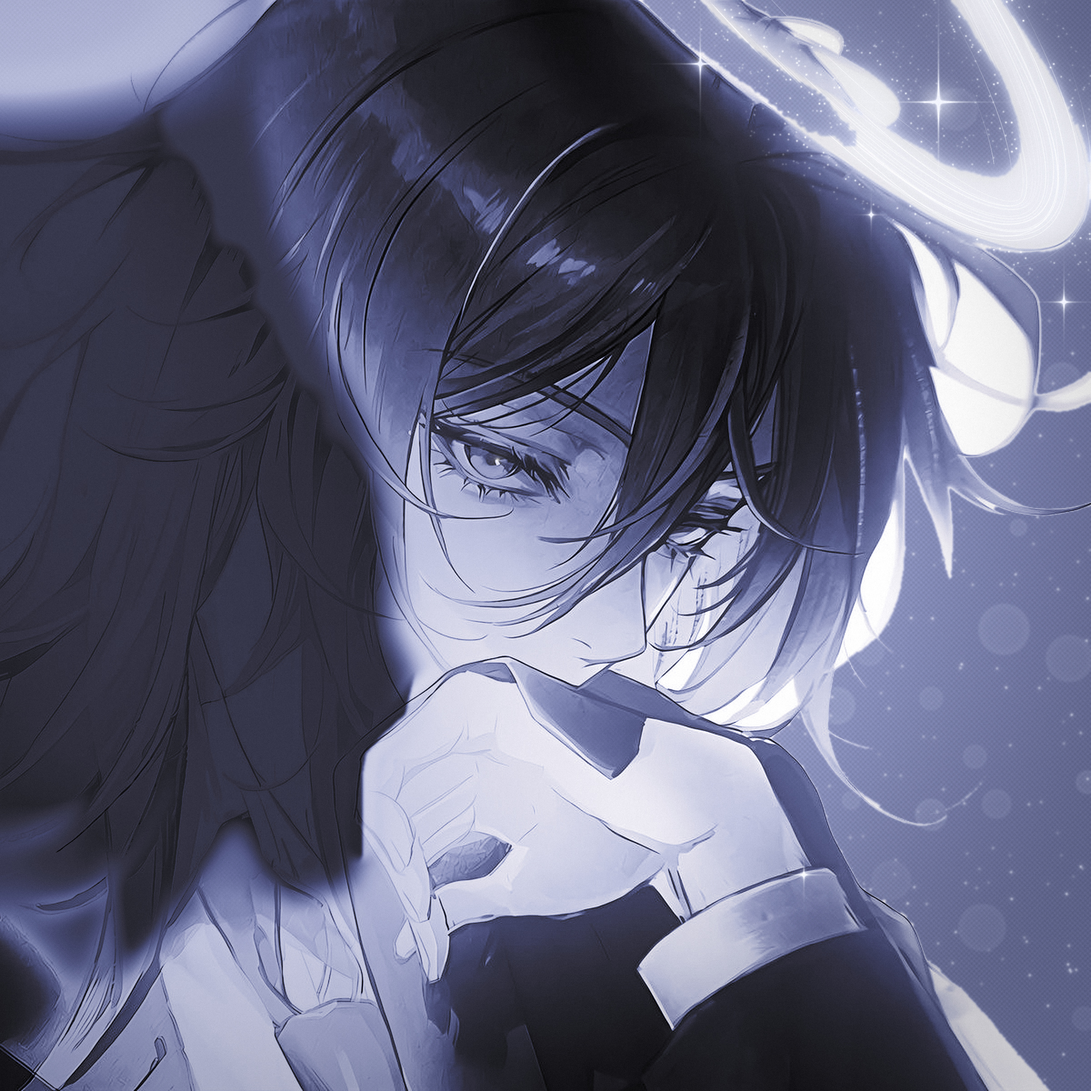
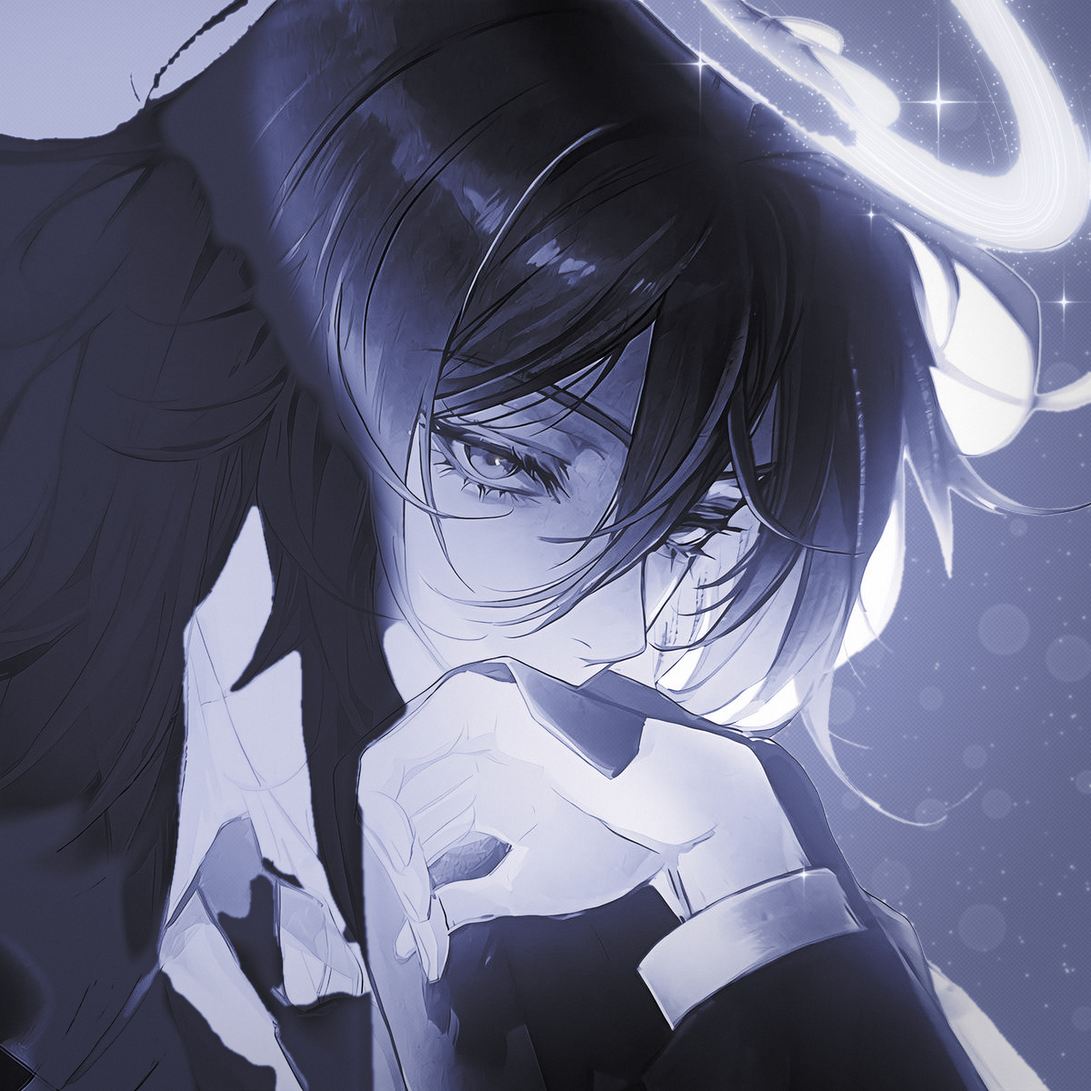
Anime art: hair edges from the drawing instead of blurred outlines
The left hair's edges were a hand-drawn outline blurred over 24 px, which
left smudges on the hand and the shirt and a fuzzy blob against the sky.
The original's light hair is warm (red above blue) while its sky, shirt
and tie are neutral, so the warmth now draws those edges: the sky in the
top-left corner (strands flying over it stay hair) and the white shirt
showing between the locks. JPEG chroma blocks are smoothed and snapped to
the drawing with a guided filter; small neutral spots inside a lock, the
hair lit to white at the left edge, and specks on the shirt are cleaned.

Claude-Session: https://claude.ai/code/session_01R1ufdM6Gy46JF29dPHPPpt

Changed region(s): [[0.0, 0.4688, 0.3438, 1.0], [0.0, 0.0, 0.25, 0.1562], [0.3438, 0.5625, 0.4062, 0.6562]]

diff --git a/halo/beautify.py b/halo/beautify.py
@@ -4,10 +4,10 @@
 1. Resolution: the picture is enlarged 2x (Lanczos, mild unsharp mask) and
    everything below is drawn natively at that size; masks are found at 1x.
 2. Hair colour and highlights on the left: the long hair there was backlit to
-   white. Inside HAIR_POLY (sharp along the hand's drawn outline, soft elsewhere,
-   fading out towards the sky in the top-left corner) it takes the dark hair's
-   tones, HAIR_K * L^HAIR_G, weighted by how light the hair is locally, so it
-   blends into the dark hair. Elsewhere the highlights there were half pure white. Its
+   white. Inside HAIR_POLY (sharp along the hand's drawn outline) it takes the
+   dark hair's tones, HAIR_K * L^HAIR_G. Its edges against the sky (top-left,
+   wisps included) and against the shirt showing between the locks come from the
+   original's warmth: its light hair is warm, its sky and shirt neutral. Elsewhere the highlights there were half pure white. Its
    strands are still in the original's top tones (and in its blue channel,
    which clips far less), so those tones are rolled off from LEFT_KNEE up to
    LEFT_TOP with a shoulder that spreads them out instead of flattening them,
@@ -61,15 +61,21 @@ STARS = [  # x, y, vertical ray, horizontal ray, gain; on dark spots so they rea
 EYE = (547.0, 506.0)
 # the light, backlit hair on the left (1x outline; the face, hand and shirt collar
 # stay outside it). Inside, the hair takes the dark hair's tones: HAIR_K * L^HAIR_G
-HAIR_POLY = [(300, 0), (0, 0), (0, 1080), (130, 1075), (240, 975), (330, 990), (385, 975),
+HAIR_POLY = [(300, 0), (0, 0), (0, 1200), (410, 1200), (408, 1100), (400, 1000),
              (398, 940), (398, 850), (402, 828), (420, 808), (445, 785), (455, 740),     # the hand's outline
              (430, 690), (432, 620), (422, 540), (405, 470),                 # the face's left side
              (360, 380), (310, 250), (282, 120)]
 # the drawn outline of the hand: the hair edge is sharp only along it
-HAND_LINE = [(560, 722), (500, 740), (470, 760), (445, 785), (420, 808), (402, 828), (398, 850), (398, 925)]
-# the top-left corner is sky with a few strands: the hair fades out towards it over
-# a wide soft gradient (ellipse radii in px), so no hard edge separates them
-CORNER = (260.0, 110.0, 0.5, 1.6)
+HAND_LINE = [(560, 722), (500, 740), (470, 760), (445, 785), (420, 808), (402, 828), (398, 850), (398, 940),
+             (400, 1000), (408, 1100), (410, 1200)]
+# the original's light hair is warm (red above blue) and its sky, collar and tie are
+# neutral: that draws the hair's own edge against the sky in the top-left corner (wisps
+# included) and over the shirt between the locks, instead of a drawn line
+SKY_WARMTH = 3.0           # (R - B) * 255 at or below this, on pure white: sky
+HAIR_WARMTH = (9.0, 15.0)  # over the shirt: shirt and tie below the first, hair above the second
+SHIRT_Y = (500.0, 540.0)    # the shirt shows between the locks below this
+SHIRT_MIN = 3000            # px: smaller neutral spots are hair
+SPECK_MAX = 400             # px: smaller warm specks on the shirt are not
 HAIR_K, HAIR_G = 0.27, 1.8
 HAIR_FLOOR = 0.145         # the crown's dark hair tone before the S-curve
 HAIR_EDGE = 0.27           # the light hair's tone once darkened, before the S-curve
@@ -89,6 +95,14 @@ def masks(L):
     lb, nb = ndimage.label(band)
     band = lb == np.argmax(ndimage.sum(band, lb, range(1, nb + 1))) + 1
     return bg, band
+
+
+def guided(I, p, r, eps):
+    """Guided filter (He et al.): p smoothed, with its edges following I's."""
+    m = lambda x: ndimage.uniform_filter(x, 2 * r + 1)
+    mI, mp = m(I), m(p)
+    a = (m(I * p) - mI * mp) / (m(I * I) - mI * mI + eps)
+    return np.clip(m(a) * I + m(mp - a * mI), 0.0, 1.0)
 
 
 def up(img, size):
@@ -145,15 +159,30 @@ def main():
     hair_poly = Image.new("L", (W1, H1), 0)
     ImageDraw.Draw(hair_poly).polygon(HAIR_POLY, fill=255)
     hair_poly = up(np.asarray(hair_poly, np.float64) / 255.0, (W, H))
-    gy, gx = np.mgrid[0:H, 0:W] / float(S)
+    gy = np.mgrid[0:H, 0:W][0] / float(S)
     # sharp along the hand's drawn outline, soft everywhere else (strands cross the cheek,
     # and the hair thins out over the collar)
     line = Image.new("L", (W, H), 0)
     ImageDraw.Draw(line).line([(x * S, y * S) for x, y in HAND_LINE], fill=255, width=2)
     near = ss(28.0 * S, 10.0 * S, ndimage.distance_transform_edt(np.asarray(line) == 0))
     hair_poly = (1.0 - near) * eh.gauss(hair_poly, 12.0 * S) + near * eh.gauss(hair_poly, 1.5 * S)
-    cr, cyr, c0, c1 = CORNER
-    hair_poly = hair_poly * ss(c0, c1, np.hypot(gx / cr, gy / cyr))
+    warm = ndimage.gaussian_filter((P1[..., 0] - P1[..., 2]) * 255.0, 2.0)
+    neutral = (warm <= SKY_WARMTH) & (P1 @ wh.LW > 0.97)
+    lab, _ = ndimage.label(neutral)
+    sky = np.isin(lab, np.setdiff1d(np.unique(lab[0, :W1 // 3]), [0]))          # touches the top
+    sky = up(ndimage.gaussian_filter(sky.astype(np.float64), 1.0), (W, H))
+    # the warmth is in 8 px JPEG blocks: smoothed, snapped to the drawing's edges, then a
+    # yes/no per pixel (less warm spots inside a lock are still hair, and so is the hair lit
+    # to white along the left edge: only big neutral areas are the shirt), with a soft edge
+    warm_hair = guided(P1 @ wh.LW, ss(*HAIR_WARMTH, ndimage.gaussian_filter(warm, 4.0)), 4, 0.002) > 0.5
+    gaps, n_gaps = ndimage.label(~warm_hair)
+    warm_hair |= np.isin(gaps, 1 + np.nonzero(ndimage.sum(np.ones_like(warm), gaps, range(1, n_gaps + 1)) < SHIRT_MIN)[0])
+    warm_hair |= np.isin(gaps, np.setdiff1d(gaps[:, 0], [0]))       # lit to white at the left edge
+    bits, n_bits = ndimage.label(warm_hair)                        # and specks on the shirt are not
+    warm_hair &= ~np.isin(bits, 1 + np.nonzero(ndimage.sum(np.ones_like(warm), bits, range(1, n_bits + 1)) < SPECK_MAX)[0])
+    warm_hair = ndimage.gaussian_filter(warm_hair.astype(np.float64), 1.0)
+    shirt = ss(SHIRT_Y[0], SHIRT_Y[1], gy)
+    hair_poly = hair_poly * (1.0 - sky) * (1.0 - shirt + shirt * up(warm_hair, (W, H)))
     bg_raw = up(bg1.astype(np.float64), (W, H)) > 0.5
     bg = bg_raw & (hair_poly < 0.5)                                  # blown-out hair is not sky
     # how much the sky treatment applies: soft, fading out wherever the hair fades in
@@ -177,11 +206,8 @@ def main():
     # backlit edge of the dark hair stays at that tone, and only the light hair's strands
     # spread above it, so no light band is left where the dark hair meets the light hair
     hair_src = L0 + ss(0.5, 0.95, L0) * (Ld - L0)
-    # down to the face the whole hair takes it; over the shirt only the light hair does
-    low = ss(700.0, 850.0, Y)
     mean = eh.gauss(L0, 12.0 * S)
-    t = np.clip((mean - (0.20 + 0.25 * low)) / (0.25 + 0.05 * low), 0.0, 1.0)
-    hair_w = hair_poly * t * t * (3.0 - 2.0 * t)
+    hair_w = hair_poly * ss(0.20, 0.45, mean)
     # the floor: the crown's tone inside the light hair (its strands go below it), the
     # light hair's own tone on the dark hair's soft edge, so that edge matches both sides
     floor = HAIR_FLOOR + (HAIR_EDGE - HAIR_FLOOR) * (1.0 - ss(0.72, 0.88, mean))

diff --git a/halo/README.md b/halo/README.md
@@ -46,7 +46,7 @@
 
 لمسة فنية بنفس ستايل صورتك (`beautify.py`)، مرسومة بدقة مضاعفة:
 - **الجودة**: الصورة مكبّرة ×2 مع حدة خفيفة، وكل الإضافات مرسومة مباشرة على الدقة الكبيرة، فتطلع حادة. فيه نسخة JPEG أخف (`anime_art.jpg`، 2.1 ميجا).
-- **لون الشعر كامل**: الشعر الطويل اللي على اليسار كان أبيض من الإضاءة، والحين بنفس لون الشعر اللي فوق الراس (كحلي)، وخطوط الخصل حقت الرسمة الأصلية باقية. ما فيه ظلال ولا نقشة مضافة. والخط الفاتح المايل اللي كان بين الشعر اللي فوق والشعر اللي على اليسار راح، فصار الشعر متصل.
+- **لون الشعر كامل**: الشعر الطويل اللي على اليسار كان أبيض من الإضاءة، والحين بنفس لون الشعر اللي فوق الراس (كحلي)، وخطوط الخصل حقت الرسمة الأصلية باقية. ما فيه ظلال ولا نقشة مضافة. والخط الفاتح المايل اللي كان بين الشعر اللي فوق والشعر اللي على اليسار راح، فصار الشعر متصل. وحدود الشعر صارت من الرسمة نفسها: فوق على اليسار تمشي مع الخصل وتطلع منها شعرات طايرة على السما، وتحت يبان القميص الأبيض بين خصل الشعر زي الرسمة الأصلية، بدل الحواف المغبشة.
 - **الوميض اللي على اليسار صار هادي**: الشعر اللي على اليسار كان نصه أبيض صافي، والحين ما فيه أي جزء فوق 85% سطوع. رجعت تفاصيل الخصل اللي كانت مخفية في البياض، والخلفية هناك لافندر هادي. التوهج والبوكيه والنقاط بعيدة عن هالجهة.
 - **الخلفية**: سما بنفسجي مزرق، أفتح شوي جهة الضوء على اليسار ويغمق كل ما بعدنا عنه. نقاط الطباعة بس في الأجزاء الغامقة.
 - **الحلقة**: تتوهج، ومكونة من خيوط نور رفيعة زي حلقتك، وحولها كم خيط طاير. معها نجوم بأربع أطراف ولمعات صغيرة.
